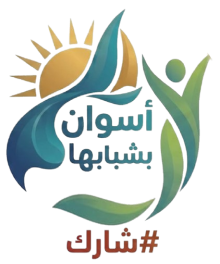
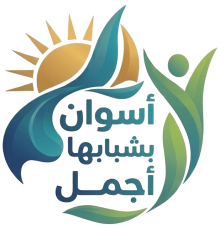
Refactor AppInfo & Dashboard

diff --git a/src/app/pages/dashboard/components/appInfo.ts b/src/app/pages/dashboard/components/appInfo.ts
@@ -6,53 +6,126 @@ import { MenuModule } from 'primeng/menu';
     standalone: true,
     selector: 'app-app-info',
     imports: [ButtonModule, MenuModule],
-    template: ` <div>
-        <div class="flex flex-column items-center justify-between text-center">
-            <img src="assets/img/title (2).png" alt="title" />
+    styles: [`
+        .app-info-wrapper {
+            background: linear-gradient(160deg, #f9f5e9 0%, #ffffff 100%);
+            border-radius: 12px;
+            padding: 1.5rem 1rem;
+        }
+        .logo-container {
+            border-radius: 12px;
+            padding: 1rem 2rem;
+            display: inline-block;
+            margin-bottom: 1rem;
+            box-shadow: 0 4px 15px rgba(53, 121, 136, 0.3);
+        }
+        .subtitle {
+            color: #897a68;
+            font-size: 1rem;
+            border-right: 3px solid #c1924c;
+            padding-right: 0.75rem;
+            text-align: right;
+            margin-bottom: 1.25rem;
+            line-height: 1.7;
+        }
+        .section-header {
+            display: flex;
+            align-items: center;
+            gap: 0.5rem;
+            background: linear-gradient(135deg, #357988, #2a5f6b);
+            color: #ffffff;
+            border-radius: 8px;
+            padding: 0.5rem 1rem;
+            margin-top: 1rem;
+            margin-bottom: 0.5rem;
+            width: 100%;
+            justify-content: flex-end;
+            flex-direction: row-reverse;
+        }
+        .section-header i {
+            color: #e7cfb4;
+        }
+        .section-header p {
+            margin: 0;
+            font-weight: 600;
+            font-size: 0.95rem;
+        }
+        .child-item {
+            display: flex;
+            align-items: center;
+            gap: 0.6rem;
+            padding: 0.4rem 0.75rem;
+            border-radius: 6px;
+            background: rgba(53, 121, 136, 0.06);
+            border: 1px solid rgba(53, 121, 136, 0.12);
+            margin-bottom: 0.4rem;
+            width: 100%;
+            justify-content: flex-end;
+            transition: background 0.2s;
+            flex-direction: row-reverse;
+        }
+        .child-item:hover {
+            background: rgba(53, 121, 136, 0.12);
+        }
+        .child-item i {
+            color: #c1924c;
+            font-size: 0.85rem;
+        }
+        .child-item span {
+            color: #1f2937;
+            font-size: 0.9rem;
+        }
+    `],
+    template: `
+        <div class="app-info-wrapper" dir="rtl">
+            <div class="text-center">
+                <div class="logo-container">
+                    <img src="assets/img/title(1).png" alt="title" style="max-height:70px; max-width:100%;" />
+                </div>
+            </div>
+
+            <p class="subtitle">
+                منصة متكاملة لإدارة ومتابعة المبادرات المجتمعية والتنموية
+            </p>
 
             @for (item of items; track $index) {
-                <div class="d-flex mb-1 mt-4">
-                    <i class="pi pi-tag p-2"></i>
-
+                <div class="section-header">
                     <p>{{ item.label }}</p>
+                    <i [class]="item.icon"></i>
                 </div>
 
                 @if (item.children) {
-                    <ul class="list-disc pl-6 d-flex flex-column items-center justify-between ">
+                    <ul class="list-unstyled w-100 mt-1 mb-0 px-1">
                         @for (child of item.children; track $index) {
-                            <li class="mt-2" style="list-style-type:none">{{ child.label }}</li>
+                            <li class="child-item">
+                                <span>{{ child.label }}</span>
+                                <i [class]="child.icon"></i>
+                            </li>
                         }
                     </ul>
                 }
             }
         </div>
-    </div>`
+    `
 })
 export class AppInfo {
     items = [
-        { label: 'مشروع ميكنة العمل بمكتب السيد / نائب المحافظ', icon: 'pi pi-fw pi-plus' },
         {
-            label: ' يعمل هذا النظام على اتمته و إدارة الأنشطة الإدارية الرئيسية التالية :',
-            icon: 'pi pi-fw pi-trash',
+            label: 'الوحدات المتاحة في النظام :',
+            icon: 'pi pi-fw pi-th-large',
             children: [
-                { label: 'إدارة المراسلات (الوارد و الصادر )', icon: 'pi pi-fw pi-plus' },
-                { label: ' إدارة الصادر ', icon: 'pi pi-fw pi-plus' },
-                { label: 'إدارة الإجتماعات ', icon: 'pi pi-fw pi-plus' },
-                { label: 'إدارة الزوار ', icon: 'pi pi-fw pi-plus' },
-                { label: 'إدارة المواعيد (الاجندة)', icon: 'pi pi-fw pi-plus' },
-                { label: 'متابعة تأشيرات و تكليفات السيد نائب المحافظ سواء متابعة ميدانية أو متابعة مكتبية', icon: 'pi pi-fw pi-plus' }
+                { label: 'المبادرات التنموية والمجتمعية ', icon: 'pi pi-fw pi-heart' },
+                { label: 'إدارة المستخدمين والصلاحيات', icon: 'pi pi-fw pi-users' },
+                { label: 'إدارة الإدارات والوحدات التنظيمية', icon: 'pi pi-fw pi-sitemap' }
             ]
         },
-
         {
-            label: 'المستفادين - أصحاب المصلحة من التطبيق :',
-            icon: 'pi pi-fw pi-plus',
+            label: 'المستفيدون من التطبيق :',
+            icon: 'pi pi-fw pi-star',
             children: [
-                { label: ' نائب المحافظ ', icon: 'pi pi-fw pi-plus' },
-                { label: ' مدير مكتب نائب المحافظ ', icon: 'pi pi-fw pi-plus' },
-                { label: ' معاون نائب المحافظ ', icon: 'pi pi-fw pi-plus' },
-                { label: ' السكرتارية الإدارية ', icon: 'pi pi-fw pi-plus' },
-                { label: ' الجهات الداخلية و الخارجية (إدارت الديوان ، المديريات ، الوحدات المحلية) ', icon: 'pi pi-fw pi-plus' }
+                { label: 'المسؤولون عن المبادرات المجتمعية', icon: 'pi pi-fw pi-user' },
+                { label: 'مديرو الجمعيات والمنظمات', icon: 'pi pi-fw pi-user' },
+                { label: 'مسؤولو الإدارة والمتابعة', icon: 'pi pi-fw pi-user' }
             ]
         }
     ];

diff --git a/src/app/pages/dashboard/dashboard.ts b/src/app/pages/dashboard/dashboard.ts
@@ -1,93 +1,57 @@
-import { Component, inject, OnInit } from '@angular/core';
-import { NotificationsWidget } from './components/notificationswidget';
-import { StatsWidget } from './components/statswidget';
-import { RecentSalesWidget } from './components/recentsaleswidget';
-import { BestSellingWidget } from './components/bestsellingwidget';
-import { RevenueStreamWidget } from './components/revenuestreamwidget';
-
+import { Component, inject } from '@angular/core';
 import { CommonModule } from '@angular/common';
-import { Carousel } from 'primeng/carousel';
+import { RouterModule } from '@angular/router';
 import { ButtonModule } from 'primeng/button';
-import { Tag } from 'primeng/tag';
+import { CardModule } from 'primeng/card';
 import { DialogService, DynamicDialogRef } from 'primeng/dynamicdialog';
 import { AppInfo } from './components/appInfo';
 
-interface Slider {
-    name: string;
-    image: string;
+interface QuickLink {
+    label: string;
+    description: string;
+    icon: string;
+    route: string;
+    color: string;
 }
 
 @Component({
     selector: 'app-dashboard',
     standalone: true,
-    imports: [CommonModule, ButtonModule],
+    imports: [CommonModule, RouterModule, ButtonModule, CardModule],
     template: `
         <div class="dashboardBackground d-flex">
             <div class="linearGradient d-flex justify-content-center align-items-center">
                 <div class="dashboardInfo">
                     <img class="mb-4" src="assets/img/title (2).png" alt="لوجو" />
-
-                    <p>مشروع</p>
-                    <p></p>
-                    <p></p>
-                    <p></p>
-                    <p></p>
-                    <p>....</p>
-
+                    <p class="mb-4" style="opacity:0.85; font-size:1.2rem;">
+                        منصة متكاملة لإدارة ومتابعة المبادرات المجتمعية والتنموية
+                    </p>
                     <div class="d-flex justify-content-center align-items-center">
-                        <button class="main-btn main" type="button" pButton pRipple (click)="openDialog()">
-                            <div class="d-flex align-items-center">
-                                <span class="p-inline-end-1">{{ 'المزيد من المعلومات' }}</span>
-                            </div>
+                        <button class="main-btn main" type="button" pButton (click)="openDialog()">
+                            <span class="p-inline-end-1">المزيد من المعلومات</span>
                         </button>
                     </div>
                 </div>
             </div>
         </div>
-    `
+    `,
+    styles: [``]
 })
-export class Dashboard implements OnInit {
-    sliders: Slider[] = [];
-
+export class Dashboard {
     dialogRef: DynamicDialogRef | undefined;
     dialogService = inject(DialogService);
 
-    constructor() {}
-
-    ngOnInit() {
-        this.sliders = [
-            {
-                name: 'slider1Image',
-                image: 'slider1.png'
-            },
-            {
-                name: 'slider2Image',
-                image: 'slider2.png'
-            },
-            {
-                name: 'slider3Image',
-                image: 'slider3.png'
-            }
-        ];
-    }
-
     openDialog(): void {
-        // Add closable parameter with default value
         this.dialogRef = this.dialogService.open(AppInfo, {
             header: 'معلومات عن النظام',
             width: '45%',
-            style: { 'background-color': 'var(--primary-color) !important', 'border-color': 'var(--primary-color) !importants', color: 'var(--white-color)' },
             modal: true,
-            breakpoints: {
-                '1199px': '75vw',
-                '575px': '90vw'
-            },
-            // data: data,
+            breakpoints: { '1199px': '75vw', '575px': '90vw' },
             focusOnShow: false,
             autoZIndex: true,
             baseZIndex: 10000,
             dismissableMask: true,
-            closable: true // Set the closable property
+            closable: true
         });
     }
 }

diff --git a/src/index.html b/src/index.html
@@ -2,11 +2,11 @@
 <html lang="en">
     <head>
         <meta charset="utf-8" />
-        <title>إدارة المبادرات المجتمعية</title>
+        <title>إدارة المبادرات التنموية والمجتمعية</title>
         <base href="/" />
         <meta name="viewport" content="width=device-width, initial-scale=1.o" />
-        <meta name="description" content="نظام إدارة المبادرات المجتمعية، منصة متكاملة لاستقبال وتتبع ومعالجة مبادرات المواطنين وتربط المواطن بالجهات المختصة بشكل سريع وشفاف، وتضمن متابعة كل مبادرة حتى إتمامها" />
-        <meta name="keywords" content="إدارة المبادرات المجتمعية, مبادرات مجتمعية, أسوان, اسوان, Aswan, Community Initiatives" />
+        <meta name="description" content="نظام إدارة المبادرات التنموية والمجتمعية، منصة متكاملة لاستقبال وتتبع ومعالجة مبادرات المواطنين وتربط المواطن بالجهات المختصة بشكل سريع وشفاف، وتضمن متابعة كل مبادرة حتى إتمامها" />
+        <meta name="keywords" content="إدارة المبادرات التنموية والمجتمعية, مبادرات تنموية ومجتمعية, أسوان, اسوان, Aswan, Community Initiatives" />
         <meta name="author" content="ISDT" />
         <link rel="preconnect" href="https://primefaces.org" />
         <link rel="icon" type="image/x-icon" href="./assets/img/favicon.png" />

diff --git a/src/app/layout/component/app-topbar/app-topbar.html b/src/app/layout/component/app-topbar/app-topbar.html
@@ -7,7 +7,7 @@
             <svg width="60" height="80" viewBox="0 0 87 69" fill="none" xmlns="http://www.w3.org/2000/svg">
                 <!-- Your existing SVG content -->
             </svg>
-            <h4 class="light">إدارة المبادرات المجتمعية</h4>
+            <h4 class="light">إدارة المبادرات التنموية والمجتمعية</h4>
         </a>
 
         <!-- Client Type Indicator (for debugging/development) -->

diff --git a/src/assets/scss/basics/_layout.scss b/src/assets/scss/basics/_layout.scss
@@ -28,6 +28,8 @@
     padding: 1rem;
     text-align: center;
     align-items: center;
+    display: flex;
+    flex-direction: column;
 }
 
 .dashboardCarosuel {